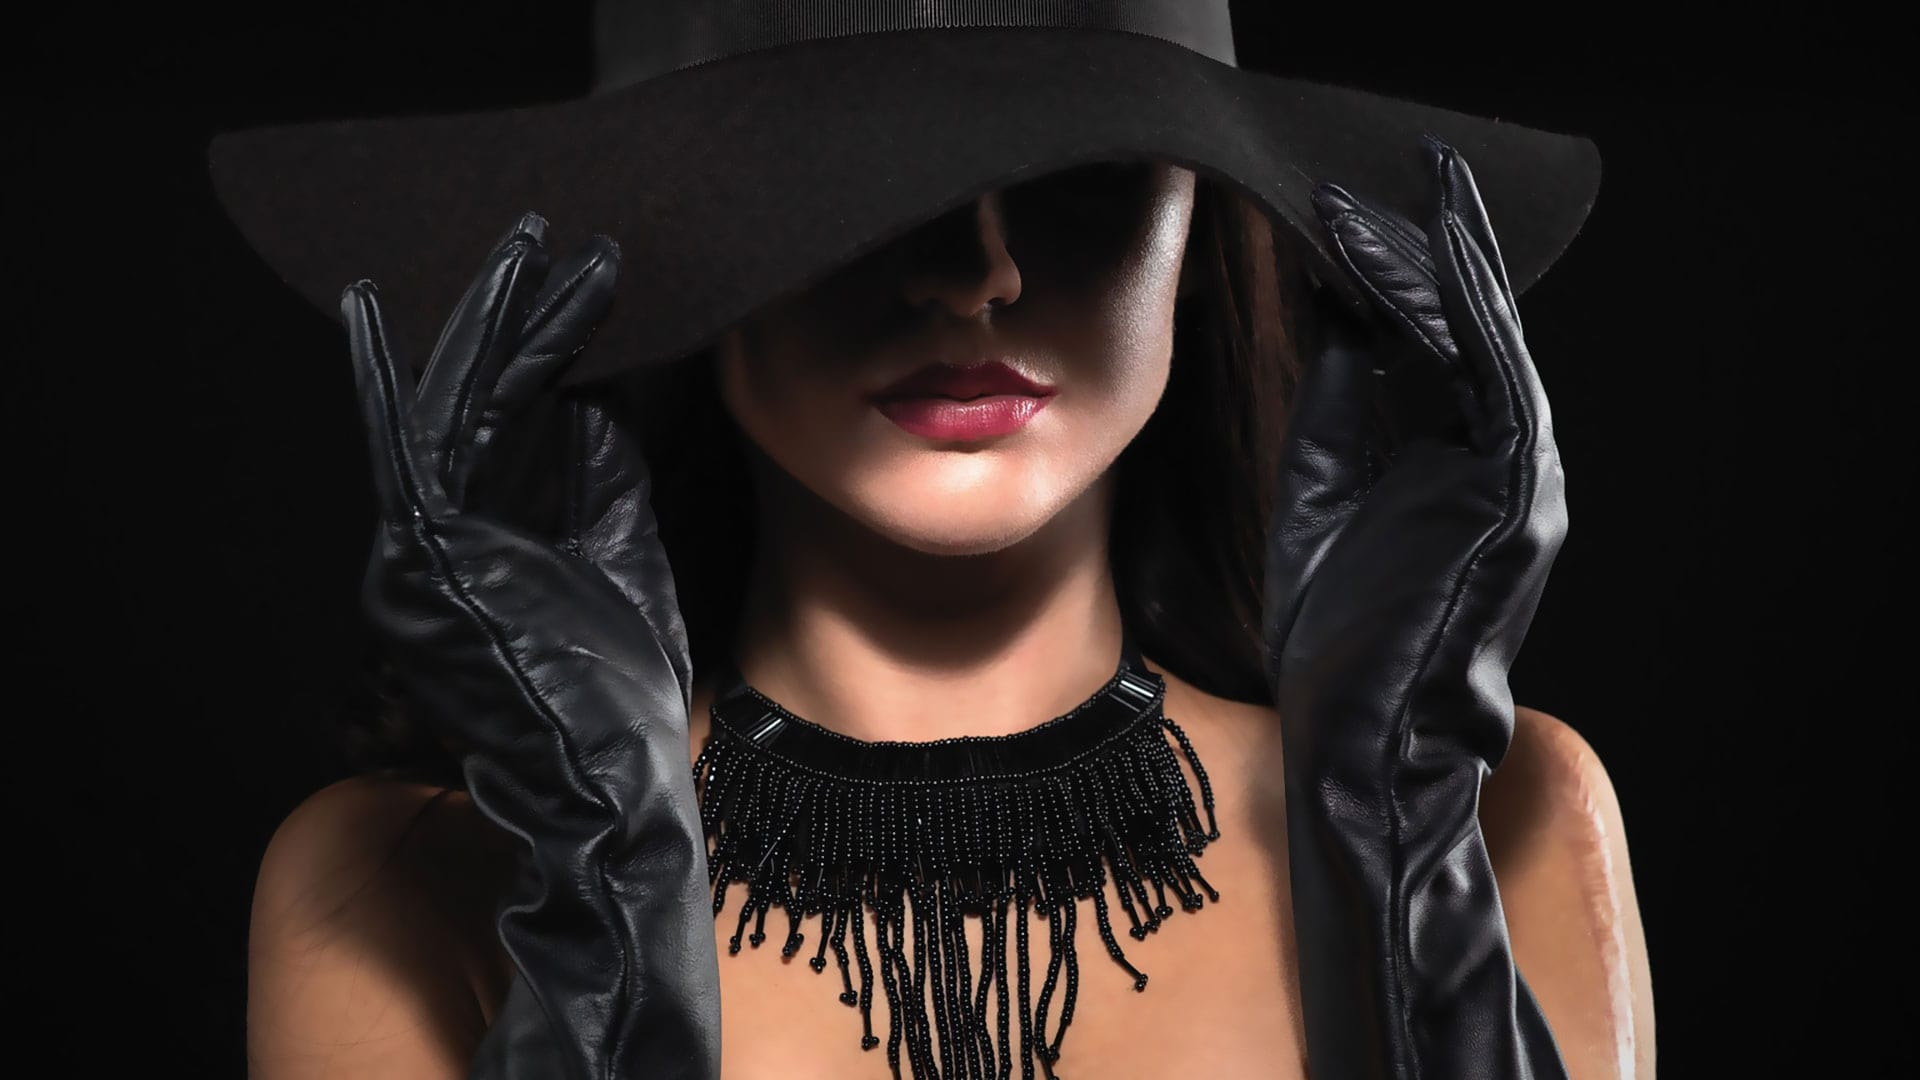
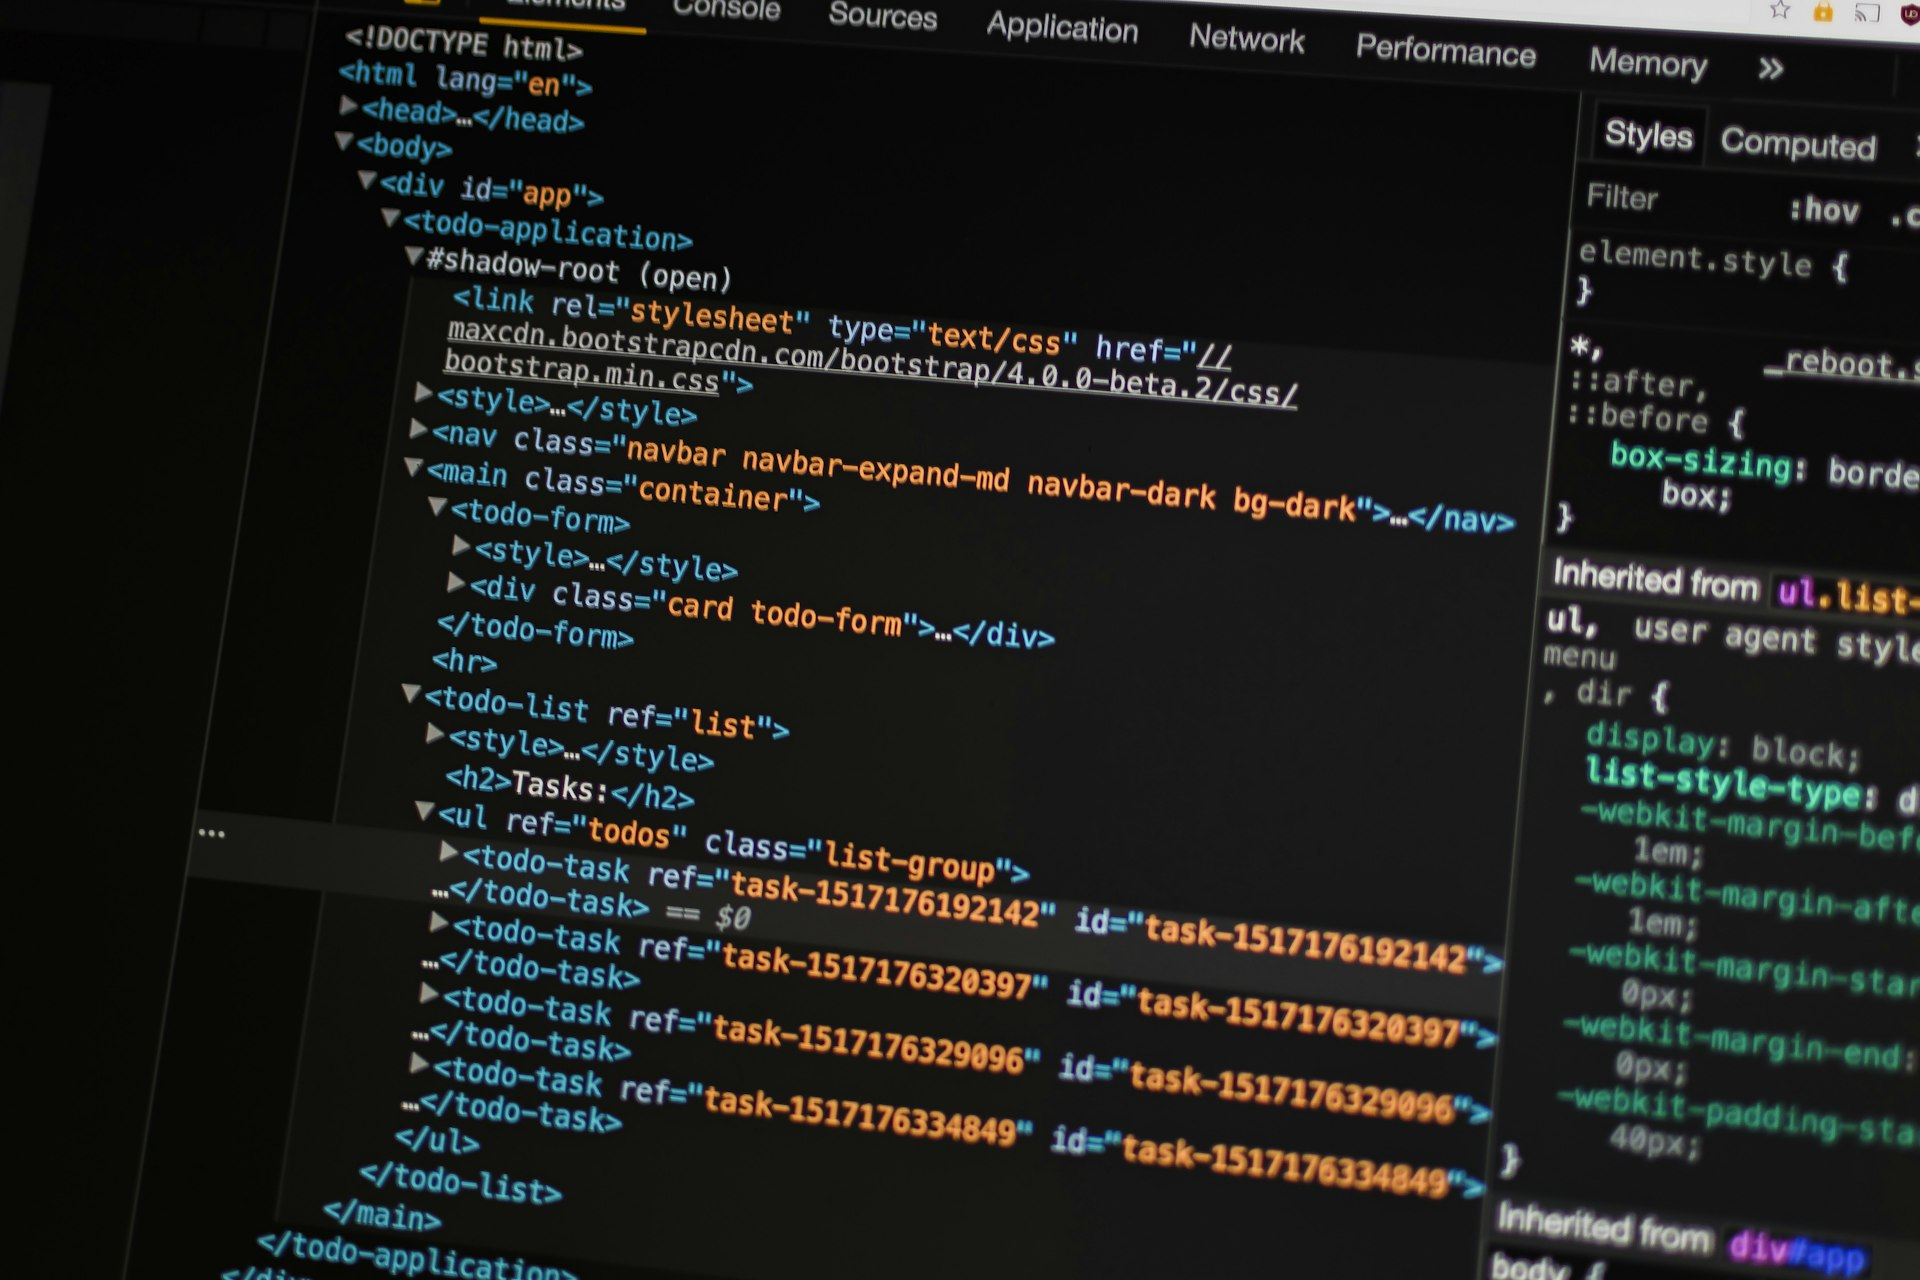
Hero: remove My Skills/Hire Me buttons; replace page-header model photo with dark code image

diff --git a/index.html b/index.html
@@ -28,7 +28,7 @@
     <!-- Stylesheets -->
     <link href="css/bootstrap.min.css" rel="stylesheet">
     <link href="css/style.css" rel="stylesheet">
-    <link href="css/custom.css?v=3" rel="stylesheet">
+    <link href="css/custom.css?v=4" rel="stylesheet">
 </head>
 
 <body>
@@ -76,14 +76,10 @@
                             </div>
                         </div>
                         <p class="fs-5 mb-4 animated slideInDown">Building scalable, secure enterprise applications<br>with Oracle Database, APEX and Python.</p>
-                        <div class="d-flex hero-badges justify-content-center mb-4 animated slideInDown">
+                        <div class="d-flex hero-badges justify-content-center animated slideInDown">
                             <span class="kf-badge"><i class="fa fa-database"></i> Oracle APEX</span>
                             <span class="kf-badge"><i class="fa fa-server"></i> PL/SQL</span>
                             <span class="kf-badge"><i class="fab fa-python"></i> Python</span>
-                        </div>
-                        <div class="animated slideInDown">
-                            <a href="service.html" class="btn btn-primary border-2 py-3 px-5 me-2">My Skills</a>
-                            <a href="contact.html" class="btn btn-outline-primary border-2 py-3 px-5">Hire Me</a>
                         </div>
                     </div>
                 </div>
@@ -332,7 +328,7 @@
     <script src="lib/waypoints/waypoints.min.js"></script>
     <script src="lib/owlcarousel/owl.carousel.min.js"></script>
     <script src="lib/lightbox/js/lightbox.min.js"></script>
-    <script src="js/main.js?v=3"></script>
+    <script src="js/main.js?v=4"></script>
 </body>
 
 </html>

diff --git a/404.html b/404.html
@@ -22,7 +22,7 @@
 
     <link href="css/bootstrap.min.css" rel="stylesheet">
     <link href="css/style.css" rel="stylesheet">
-    <link href="css/custom.css?v=3" rel="stylesheet">
+    <link href="css/custom.css?v=4" rel="stylesheet">
 </head>
 
 <body>
@@ -104,7 +104,7 @@
     <script src="lib/waypoints/waypoints.min.js"></script>
     <script src="lib/owlcarousel/owl.carousel.min.js"></script>
     <script src="lib/lightbox/js/lightbox.min.js"></script>
-    <script src="js/main.js?v=3"></script>
+    <script src="js/main.js?v=4"></script>
 </body>
 
 </html>

diff --git a/about.html b/about.html
@@ -22,7 +22,7 @@
 
     <link href="css/bootstrap.min.css" rel="stylesheet">
     <link href="css/style.css" rel="stylesheet">
-    <link href="css/custom.css?v=3" rel="stylesheet">
+    <link href="css/custom.css?v=4" rel="stylesheet">
 </head>
 
 <body>
@@ -157,7 +157,7 @@
     <script src="lib/waypoints/waypoints.min.js"></script>
     <script src="lib/owlcarousel/owl.carousel.min.js"></script>
     <script src="lib/lightbox/js/lightbox.min.js"></script>
-    <script src="js/main.js?v=3"></script>
+    <script src="js/main.js?v=4"></script>
 </body>
 
 </html>

diff --git a/contact.html b/contact.html
@@ -22,7 +22,7 @@
 
     <link href="css/bootstrap.min.css" rel="stylesheet">
     <link href="css/style.css" rel="stylesheet">
-    <link href="css/custom.css?v=3" rel="stylesheet">
+    <link href="css/custom.css?v=4" rel="stylesheet">
 </head>
 
 <body>
@@ -173,7 +173,7 @@
     <script src="lib/waypoints/waypoints.min.js"></script>
     <script src="lib/owlcarousel/owl.carousel.min.js"></script>
     <script src="lib/lightbox/js/lightbox.min.js"></script>
-    <script src="js/main.js?v=3"></script>
+    <script src="js/main.js?v=4"></script>
 </body>
 
 </html>

diff --git a/service.html b/service.html
@@ -22,7 +22,7 @@
 
     <link href="css/bootstrap.min.css" rel="stylesheet">
     <link href="css/style.css" rel="stylesheet">
-    <link href="css/custom.css?v=3" rel="stylesheet">
+    <link href="css/custom.css?v=4" rel="stylesheet">
 </head>
 
 <body>
@@ -131,7 +131,7 @@
     <script src="lib/waypoints/waypoints.min.js"></script>
     <script src="lib/owlcarousel/owl.carousel.min.js"></script>
     <script src="lib/lightbox/js/lightbox.min.js"></script>
-    <script src="js/main.js?v=3"></script>
+    <script src="js/main.js?v=4"></script>
 </body>
 
 </html>

diff --git a/team.html b/team.html
@@ -22,7 +22,7 @@
 
     <link href="css/bootstrap.min.css" rel="stylesheet">
     <link href="css/style.css" rel="stylesheet">
-    <link href="css/custom.css?v=3" rel="stylesheet">
+    <link href="css/custom.css?v=4" rel="stylesheet">
 </head>
 
 <body>
@@ -153,7 +153,7 @@
     <script src="lib/waypoints/waypoints.min.js"></script>
     <script src="lib/owlcarousel/owl.carousel.min.js"></script>
     <script src="lib/lightbox/js/lightbox.min.js"></script>
-    <script src="js/main.js?v=3"></script>
+    <script src="js/main.js?v=4"></script>
 </body>
 
 </html>

diff --git a/testimonial.html b/testimonial.html
@@ -22,7 +22,7 @@
 
     <link href="css/bootstrap.min.css" rel="stylesheet">
     <link href="css/style.css" rel="stylesheet">
-    <link href="css/custom.css?v=3" rel="stylesheet">
+    <link href="css/custom.css?v=4" rel="stylesheet">
 </head>
 
 <body>
@@ -126,7 +126,7 @@
     <script src="lib/waypoints/waypoints.min.js"></script>
     <script src="lib/owlcarousel/owl.carousel.min.js"></script>
     <script src="lib/lightbox/js/lightbox.min.js"></script>
-    <script src="js/main.js?v=3"></script>
+    <script src="js/main.js?v=4"></script>
 </body>
 
 </html>

diff --git a/css/custom.css b/css/custom.css
@@ -142,7 +142,7 @@ body {
 /* ---------- Page header (sub pages) ---------- */
 .page-header {
     background: linear-gradient(rgba(6, 9, 14, .82), rgba(6, 9, 14, .92)),
-                url(../img/carousel-1.jpg) center center no-repeat;
+                url(../img/carousel-1.jpg?v=2) center center no-repeat;
     background-size: cover;
     padding-top: 220px;
 }